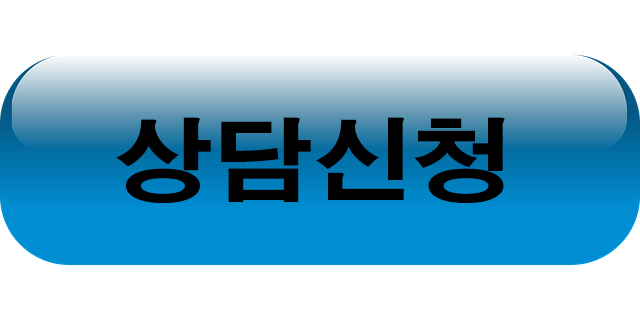
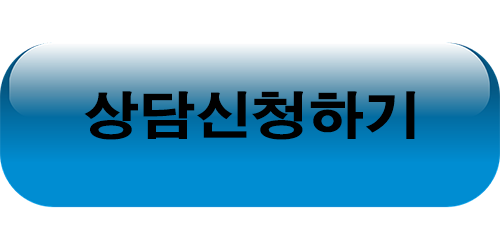
button cng

diff --git a/1812/luxell/index.html b/1812/luxell/index.html
@@ -228,77 +228,12 @@ body { background-color:#333; }
 				</ol>
 			</div>
 			<div class="btn-submit">
-				<input type="image" src="http://ad.ladp.co.kr/data/campaign/fgG2rlnxboKh/images/button.jpg?1545197050">
-			</div>
-		</div>
-		</form>
-	</div>
-
-	<div class="formBox frm2">
-		<form method="POST" accept-charset="utf-8" autocomplete="off">
-		<input type="hidden" name="campaign" value="fgG2rlnxboKh">
-		<input type="hidden" name="acode" value="KCHmn3JaeL">
-		<input type="hidden" name="scode" value="udCleeIepg">
-		<input type="hidden" name="mobile">
-		<div class="form-body">
-			<table>
-				<tbody>
-					<tr>
-						<th>이름</th>
-						<td><input type="text" name="name" class="form-control" autocomplete="off" placeholder="이름을 입력해주세요" required></td>
-					</tr>
-					<tr>
-						<th>나이</th>
-						<td><input type="number" name="age" class="form-control" autocomplete="off" placeholder="나이를 입력해주세요"required></td>
-					</tr>
-					<tr>
-						<th>연락처</th>
-						<td>
-								<div class="input-group input-group-justified">
-									<div class="input-group">
-										<select name="mobile1" class="form-control">
-											<option value="010">010</option><option value="011">011</option><option value="016">016</option><option value="017">017</option><option value="018">018</option><option value="019">019</option>										</select>
-									</div>
-									<div class="input-group">
-										<input type="number" name="mobile2" class="form-control" maxlength="4" autocomplete="off" required>
-									</div>
-									<div class="input-group">
-										<input type="number" name="mobile3" class="form-control" maxlength="4" autocomplete="off" required>
-									</div>
-								</div>
-						</td>
-					</tr>
-					<tr>
-						<th>문의내용</th>
-						<td>
-							<textarea name="content" rows="5" class="form-control" autocomplete="off" placeholder="문의내용을 입력해주세요"></textarea>			
-						</td>
-					</tr>				
-				</tbody>
-			</table>
-		</div>
-		<div class="form-footer">
-			<div class="btn-agree">
-				<label><input type="checkbox" name="agreement" style="margin-right:4px;" required checked><span>개인정보수집 정책에 동의합니다.</span></label>
-				<a href="#" class="btn-show">[자세히 보기]</a>
-			</div>
-			<div class="agreement">
-				<h3>개인정보수집정책</h3>
-				<ol>
-					<li>개인정보 수집 및 이용</li>
-					<li>개인정보 수집주제 : 블랙슈가컴퍼니</li>
-					<li>개인정보 수집항목 : 이름, 성별, 연락처, 내용</li>
-					<li>개인정보 수집 및 이용목적 : 블랙슈가컴퍼니에서 상담 활용 (전화, 문자)</li>
-					<li>개인정보 보유 및 이용기간 : 수집일로부터 6개월 (고객 동의 철회시 지체없이 파기)</li>
-					<li>상기 동의를 거부할 권리가 있으나, 수집 및 이용에 동의하지 않을 경우 블랙슈가컴퍼니 상담 안내 및 이벤트 참여가 불가능 합니다.</li>
-				</ol>
-			</div>
-			<div class="btn-submit">
 				<input type="image" src="img/button.png">
 			</div>
 		</div>
 		</form>
 	</div>
+
 
 	<div class="imgBox">
 		<img src="img/footer.jpg">
@@ -309,10 +244,9 @@ body { background-color:#fafafa; }
 .formBox { background-color:#ffffff; }
 .form-body { background-color:#ffffff; color: #333; padding-bottom: 0; }
 .form-footer { color: #999; }
-
-
 </style>
 </div>
 </section>
 </body>
+
 </html>
